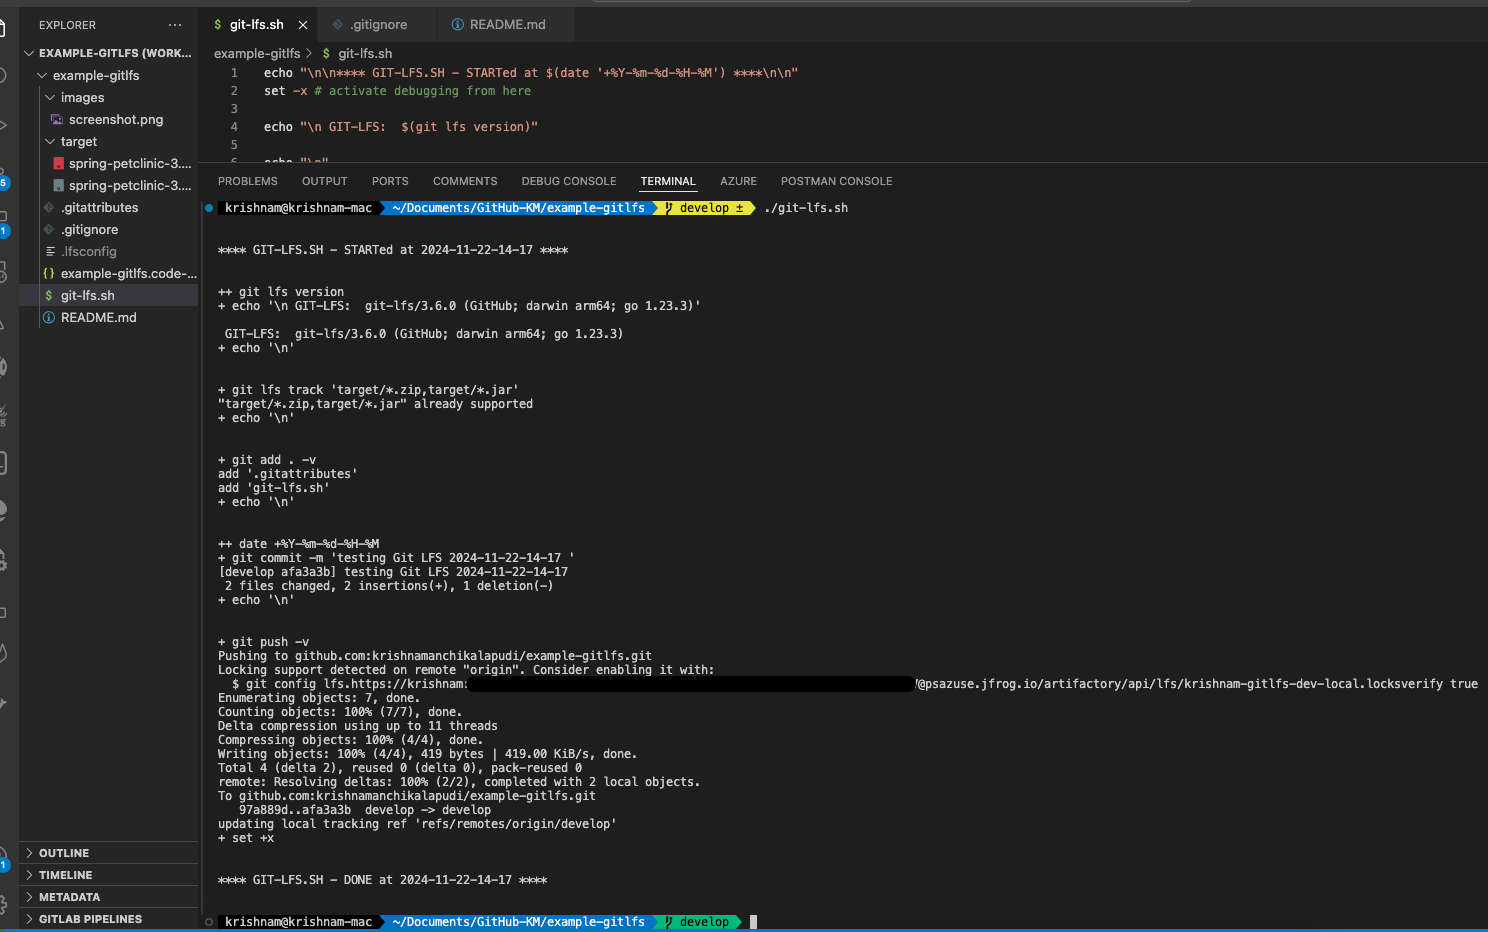
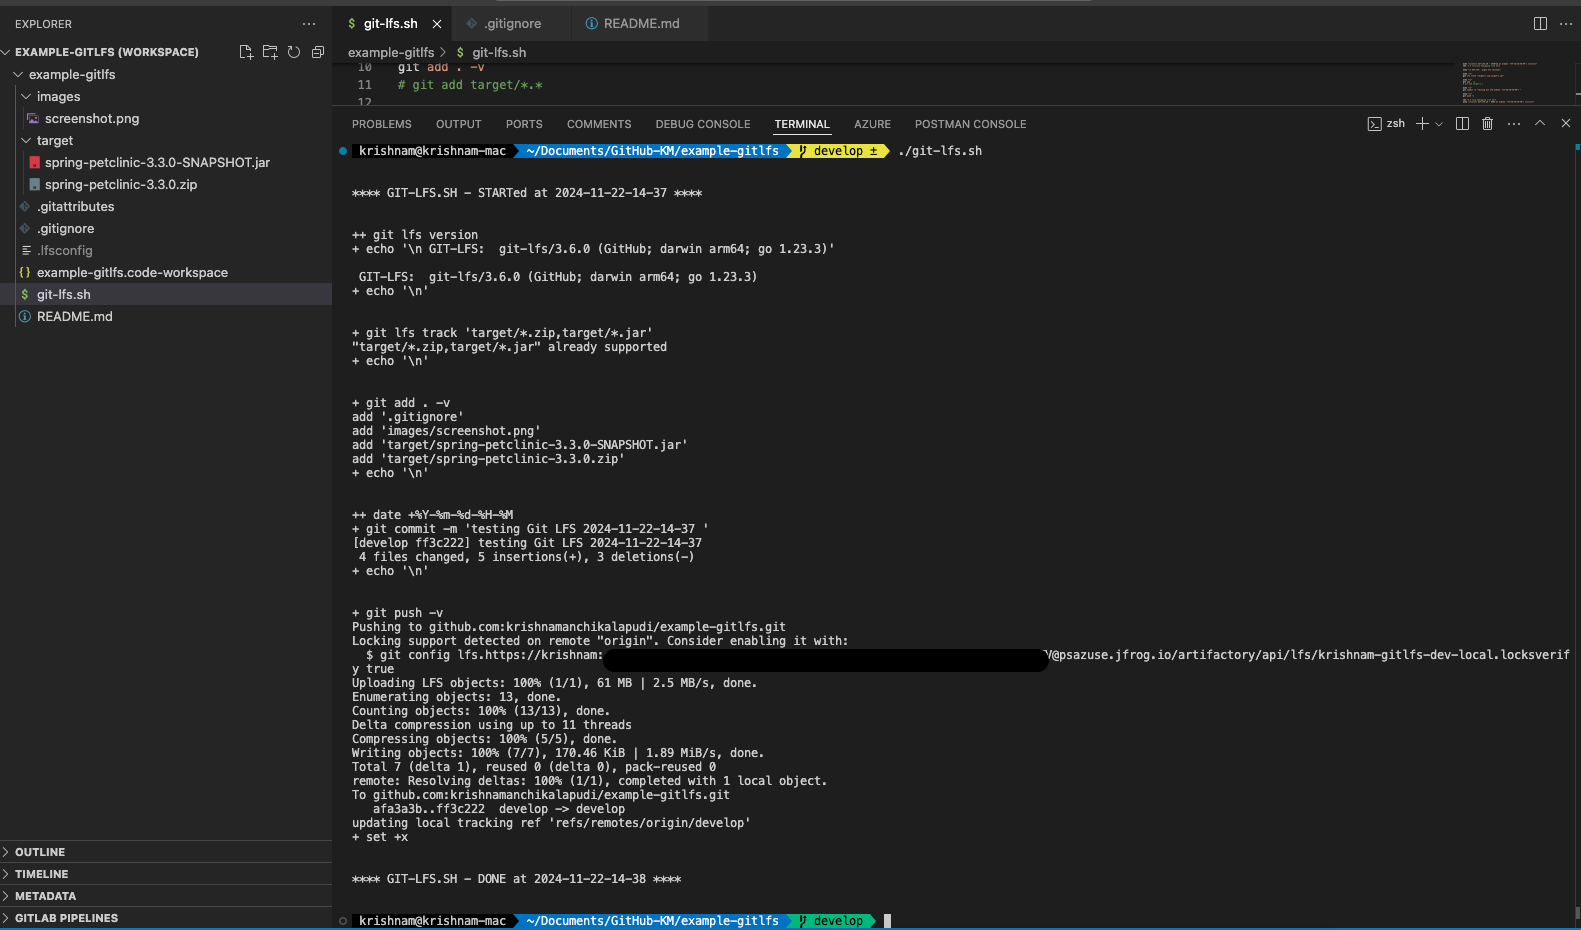
testing Git LFS 2024-11-22-14-47

diff --git a/README.md b/README.md
@@ -17,8 +17,13 @@ git add .gitattributess
     - source files uploaded to [GitHub repo](https://github.com/krishnamanchikalapudi/example-gitlfs)
     - Folder 'target' files uploaded to JFrog Artifactory Git LFS local repo
 
-![Namespace](./images/screenshot.png)
-
+## Screenshots
+- exec ./git-lfs.sh 
+![exe ./git-lfs.sh](./images/screenshot.png)
+- Artifactory Zip file
+![RT zip file](./images/rt_screenshot_zip.png)
+- Artifactory JAR file
+ ![RT jar file](./images/rt_screenshot_jar.png)
 
 ## References
 - [https://jfrog.com/help/r/how-to-make-git-lfs-work-and-configure-it-with-artifactory-in-5-min/git-lfs-artifactory-quick-start-guide](https://jfrog.com/help/r/how-to-make-git-lfs-work-and-configure-it-with-artifactory-in-5-min/git-lfs-artifactory-quick-start-guide)
